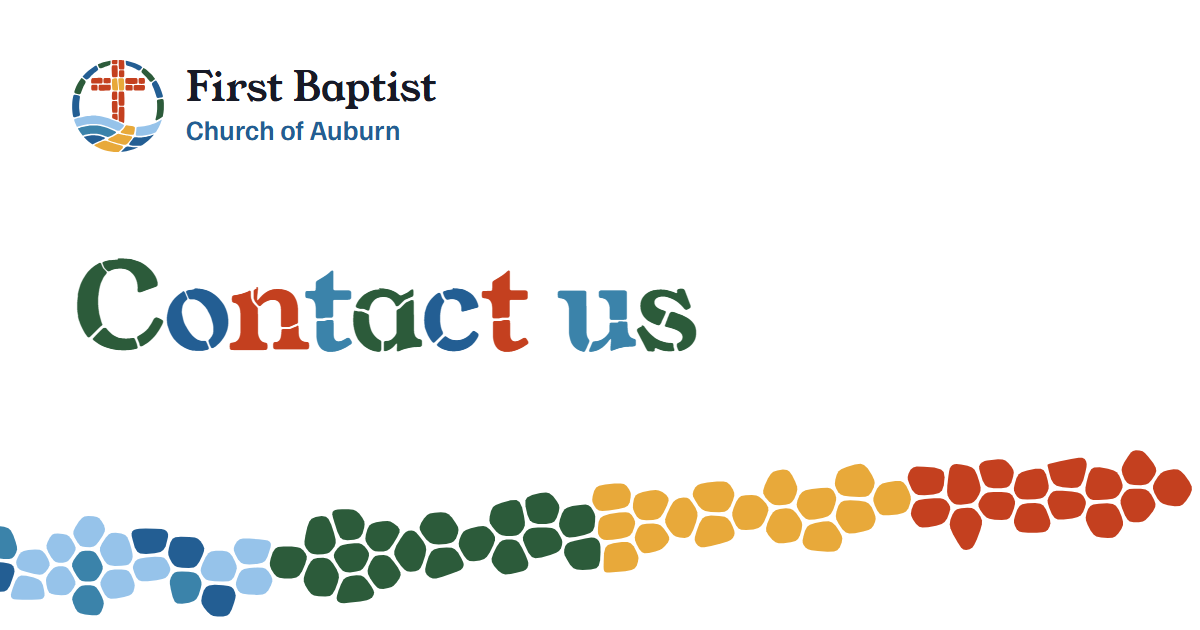
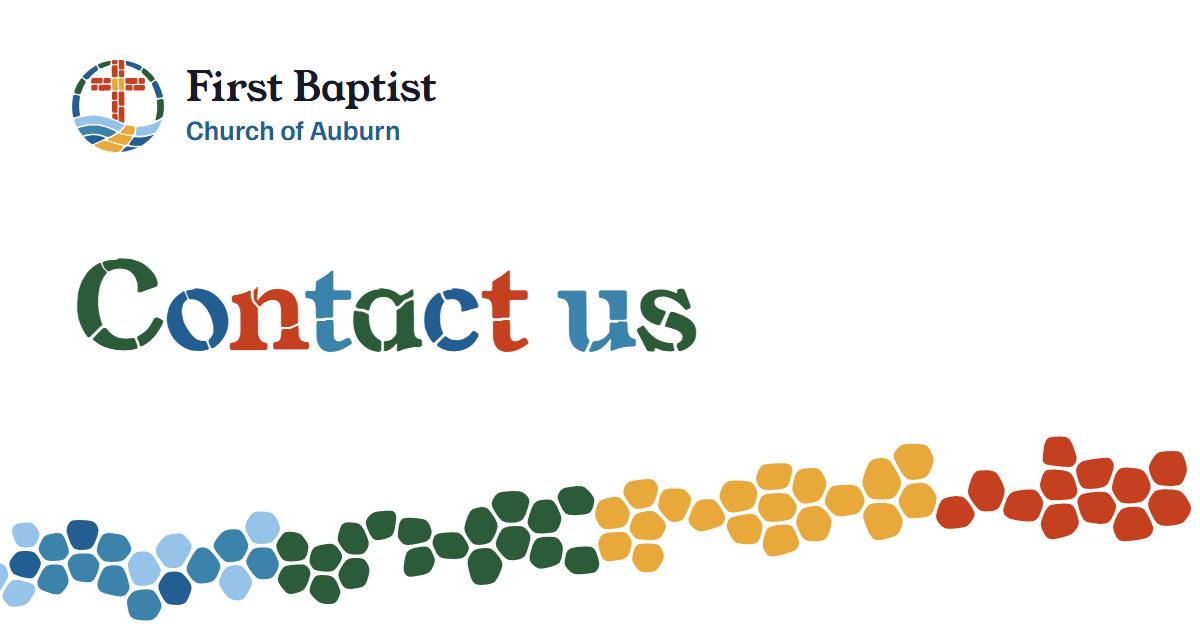
Share card path: no pointy stones
The og path preset passed the site paths' filters but one red stone
still read as a teardrop. The preset now tightens them (minCorner 88,
maxPoint 1.6) and adds minRealCorner 80, which catches a wedge whose
point is two corners joined by a tiny edge. Site paths are unchanged
(gen:stones --check clean). Seed 4, every card checked by eye.

Changed region(s): [[0.0, 0.6937, 1.0, 0.9952]]

diff --git a/docs/agent/changelog.md b/docs/agent/changelog.md
@@ -6,7 +6,7 @@ _2026-10-18: share images in the church's brand._
 starter's generic card. They are now drawn by `scripts/lib/og-card.mjs`, site-specific: the
 church lockup top left, the page title in Auburn Stone with the mosaic letter colours (deep sky
 alone when it needs three lines), and the stone path rising across the foot from the water to the
-red cross (a new `og` preset in `stone-mosaic.mjs`, seed 11). Home and `og-default.png` carry the
+red cross (a new `og` preset in `stone-mosaic.mjs`, seed 4, with stricter shape limits so no stone is pointy). Home and `og-default.png` carry the
 masthead and the Site settings tagline. Picked from three directions (stone path; deep sky with the
 This Sunday card ground; an arched mosaic window): the path won on brand (it is the site's own H1
 and path) and on long titles, which the arch squeezed to five lines. Titles fit from 120px down to

diff --git a/OPERATIONS.md b/OPERATIONS.md
@@ -489,7 +489,7 @@ await closeCards(); // once, at the end, or the process never exits
 ```
 
 Titles up to about 70 characters fit (120px down to 64px, three lines at most); em and en dashes
-become colons. The card's stone path is the `og` preset in `scripts/lib/stone-mosaic.mjs`, seed 11.
+become colons. The card's stone path is the `og` preset in `scripts/lib/stone-mosaic.mjs`, seed 4, with stricter stone-shape limits than the site paths so no stone reads as a teardrop.
 
 ## Regenerate logos
 
